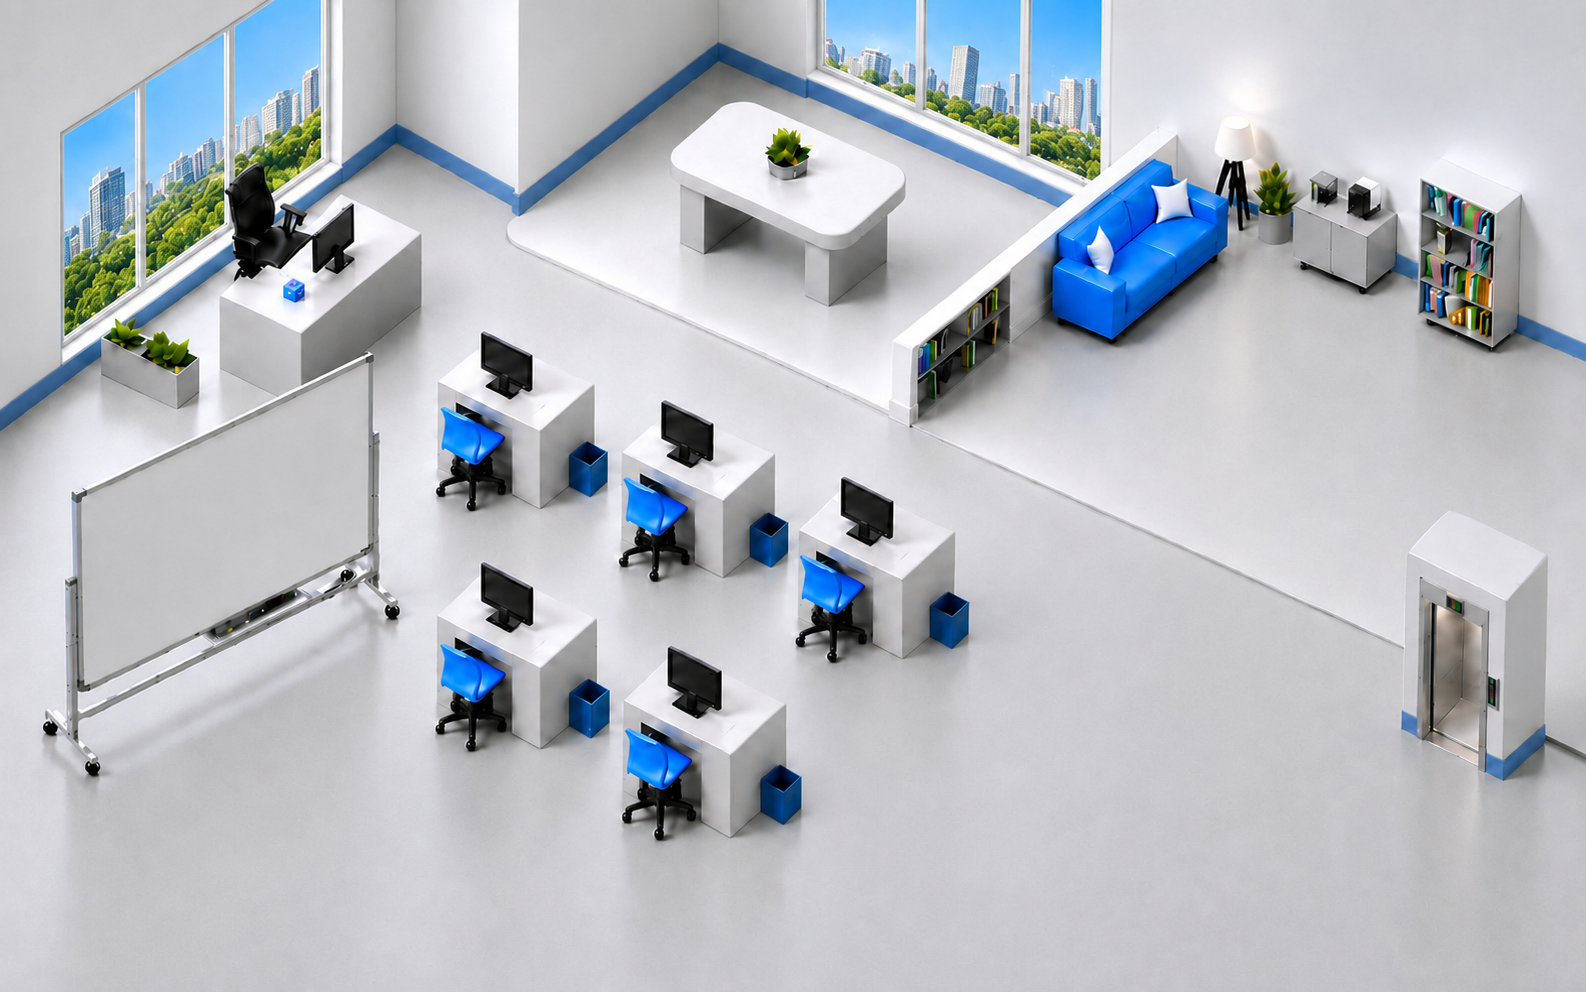
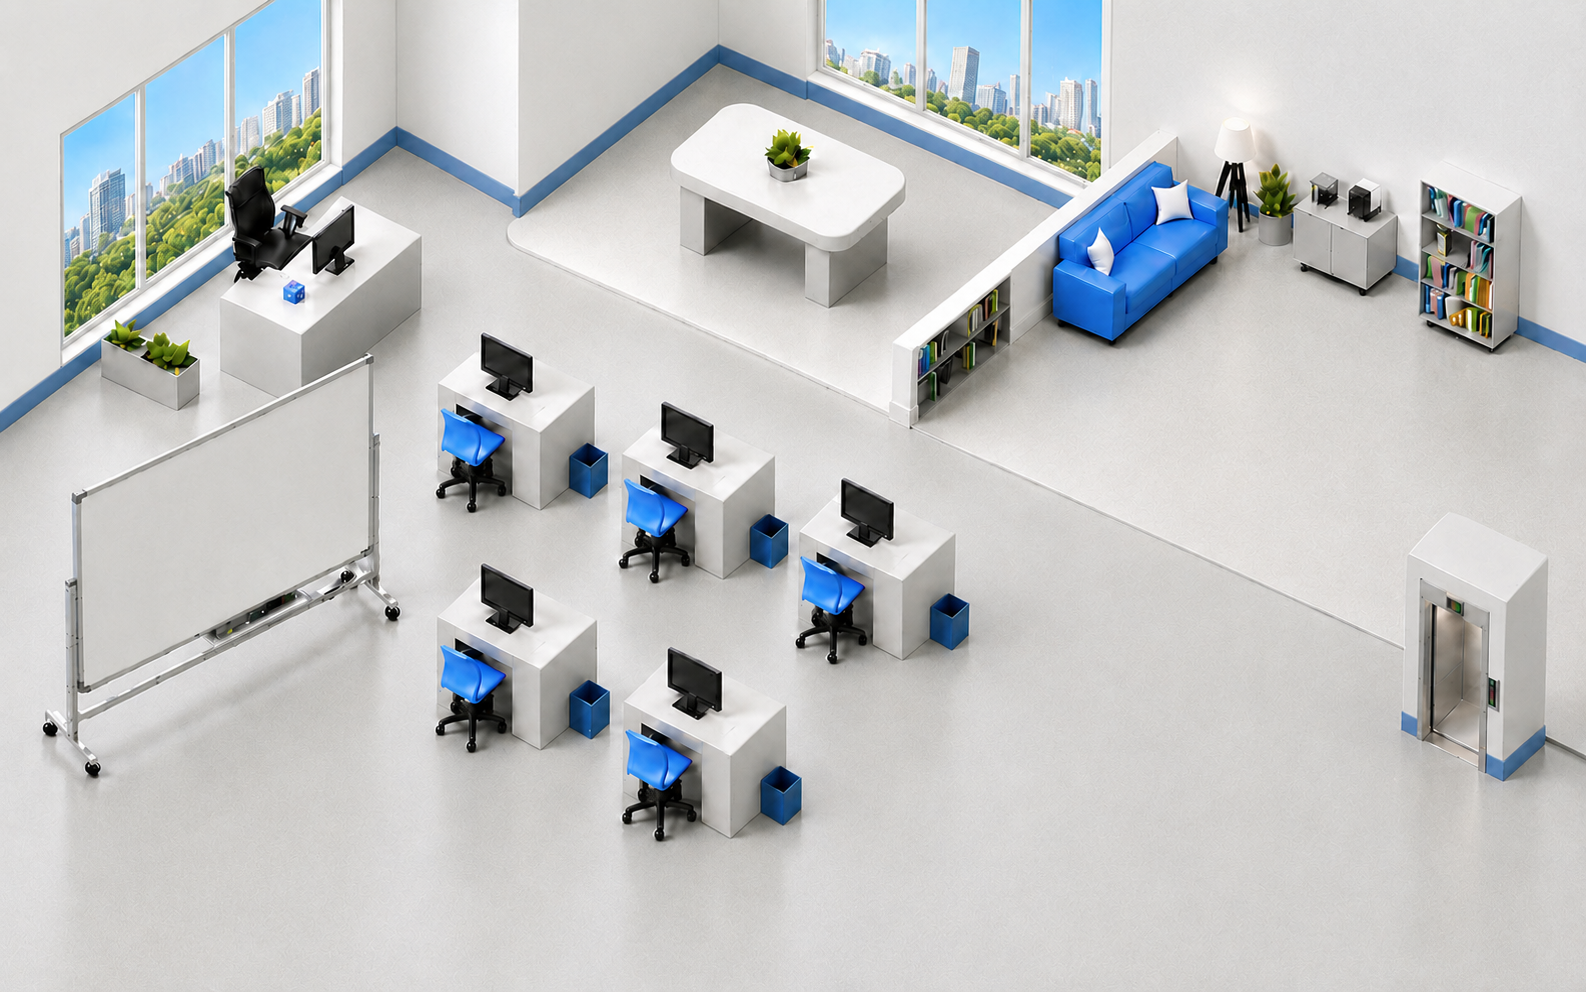
FE-design : 단일 시각화 맵 이미지 낮,노을 버전 변경

diff --git a/frontend/src/pages/AgentStatusPage.tsx b/frontend/src/pages/AgentStatusPage.tsx
@@ -120,7 +120,7 @@ const AGENT_CONFIGS: AgentConfig[] = [
       desk: { x: 465, y: 595 },
       sofa: { x: 1185, y: 205 },
       floorLean: { x: 1340, y: 280 },
-      meeting: { x: 850, y: 65 },
+      meeting: { x: 850, y: 75 },
       calling: { x: 1430, y: 840 },
     },
   },
